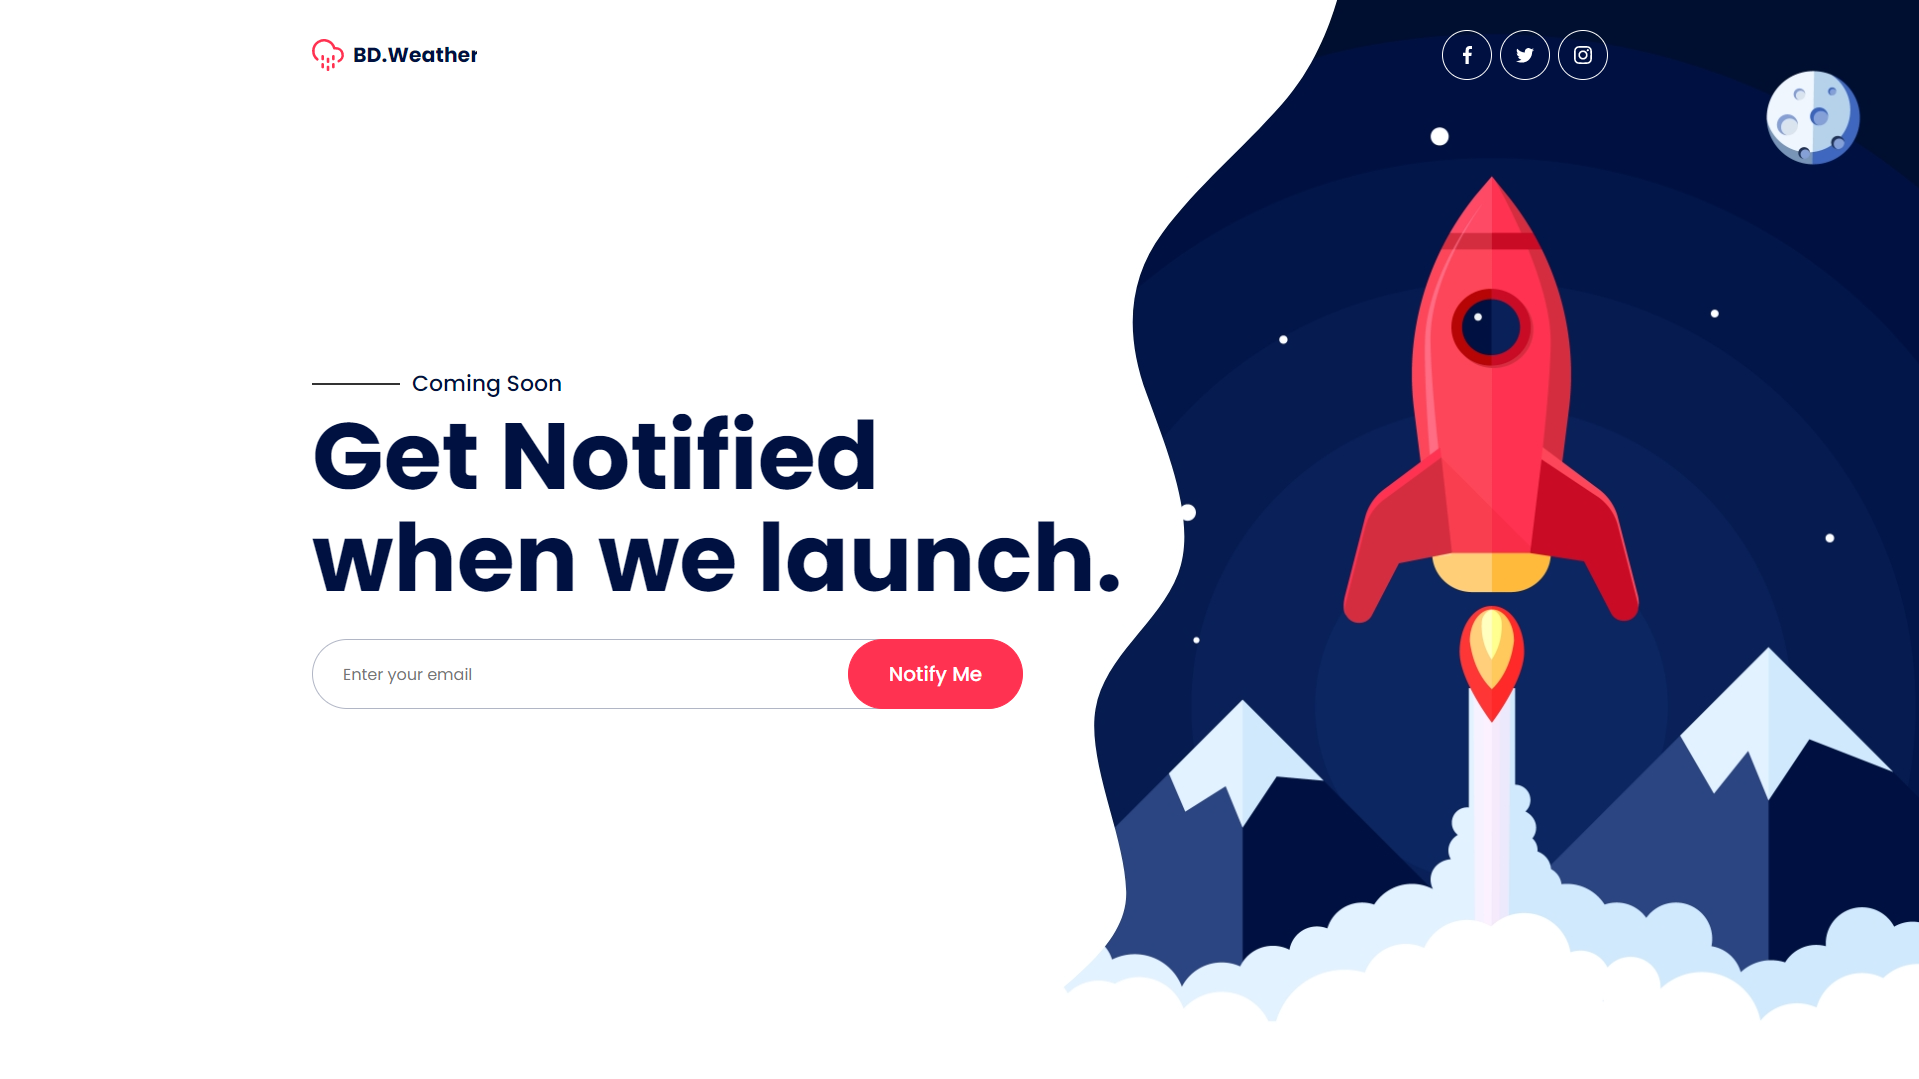
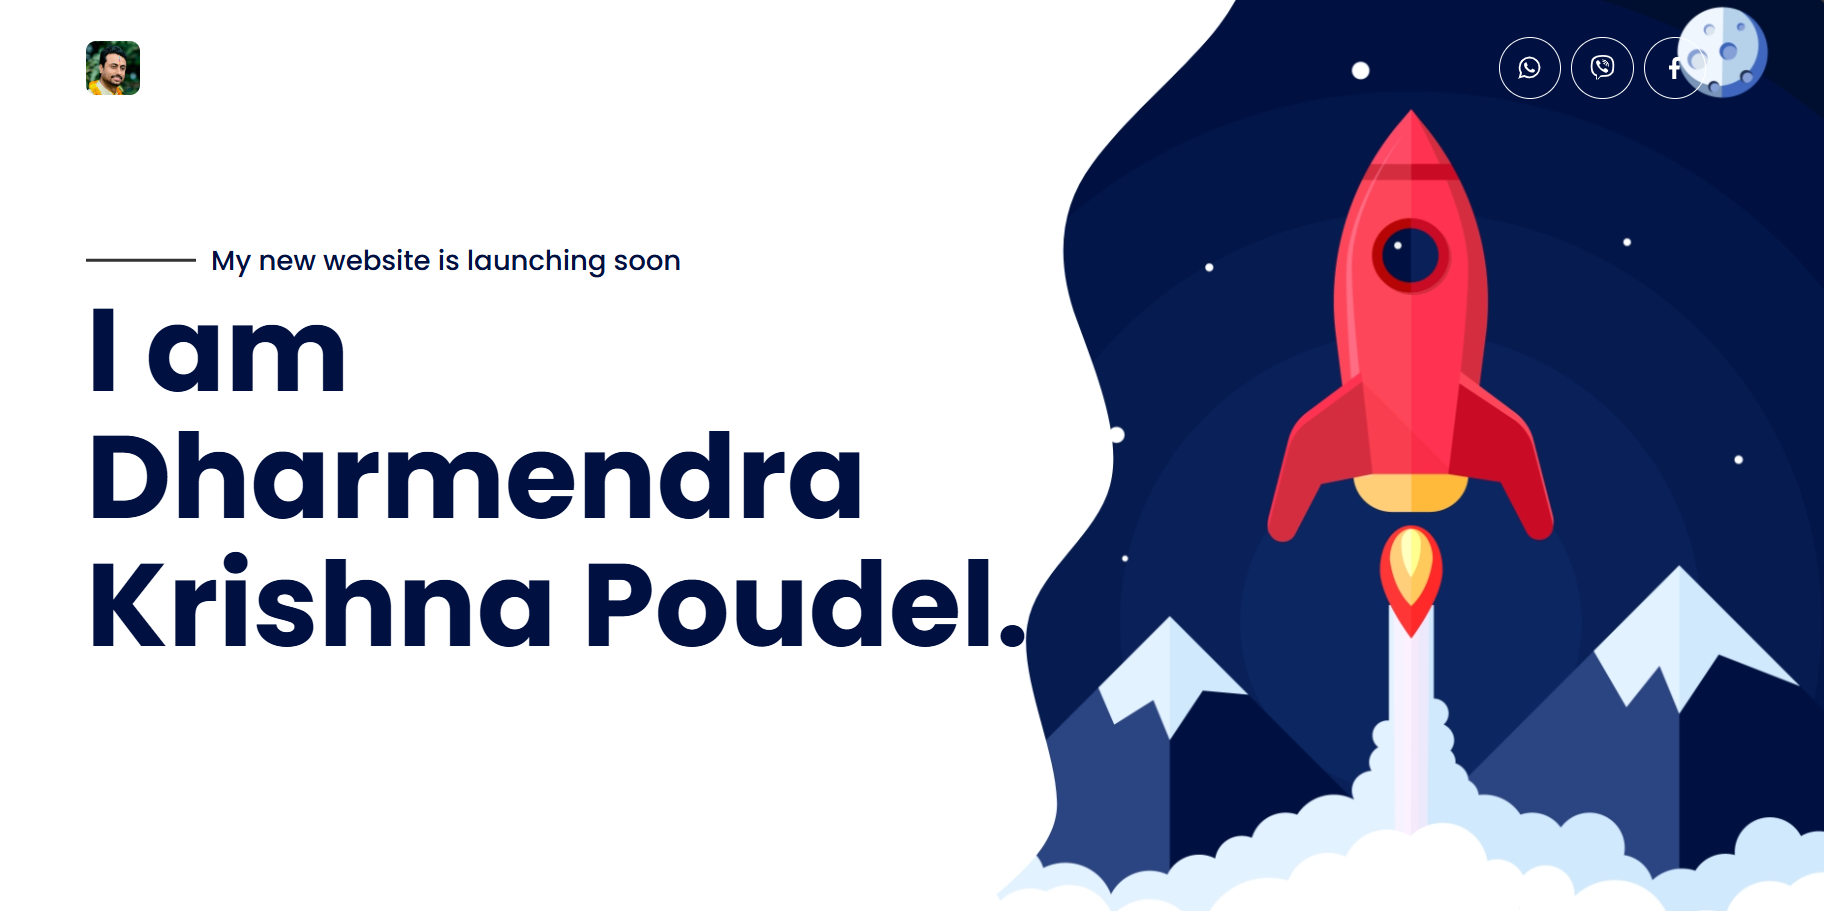
license and readme added

diff --git a/README.md b/README.md
@@ -1,17 +1,12 @@
-# [Templatecookie](https://templatecookie.com)
-Templatecookie.com creates quality templates and php scripts. Templatecookie has many free HTML & Figma templates available for professional use. Templatecookie is famous for its premium PHP Scripts available on [Codeanyon Marketplace](https://codecanyon.net/user/templatecookie). Browse [Templatecookie](https://templatecookie.com) today and discover awesome digital products.
+# [Dharmendra Krishna Poudel](https://dharmendrapoudel.com.np)
+Personal Portfolio Website of Dharmendra Krishna Poudel. This website is developed using HTML, CSS, and JavaScript.
 
-# [Poco HTML Agency Landing Page Template](https://www.templatecookie.com/templates/varin-html-template)
-
-> Poco is a beautiful landing page template for agencies, It has many pages including, services, about, contact, portfolio, portfolio details, blog, blog details, and more.
-
-Check the [Live Demo here](https://bdweather-coming-soon.netlify.app/).
+This website is live at [https://dharmendrapoudel.com.np](https://dharmendrapoudel.com.np)
 
 ![](screenshot.png)
 
 ## Credits
-- Design & Developed by [Templatecookie](https://templatecookie.com)
+- Design & Developed by [Madhav Paudel](https://poudelmadhav.com.np)
 
 ## License
 The MIT License (MIT). Please see [License File](LICENSE.md) for more information.
-

diff --git a/LICENSE.md b/LICENSE.md
@@ -1,6 +1,6 @@
 MIT License
 
-Copyright (c) 2021 Echotemplate.com
+Copyright (c) 2024 Madhav Paudel (poudelmadhav.com.np)
 
 Permission is hereby granted, free of charge, to any person obtaining a copy
 of this software and associated documentation files (the "Software"), to deal
